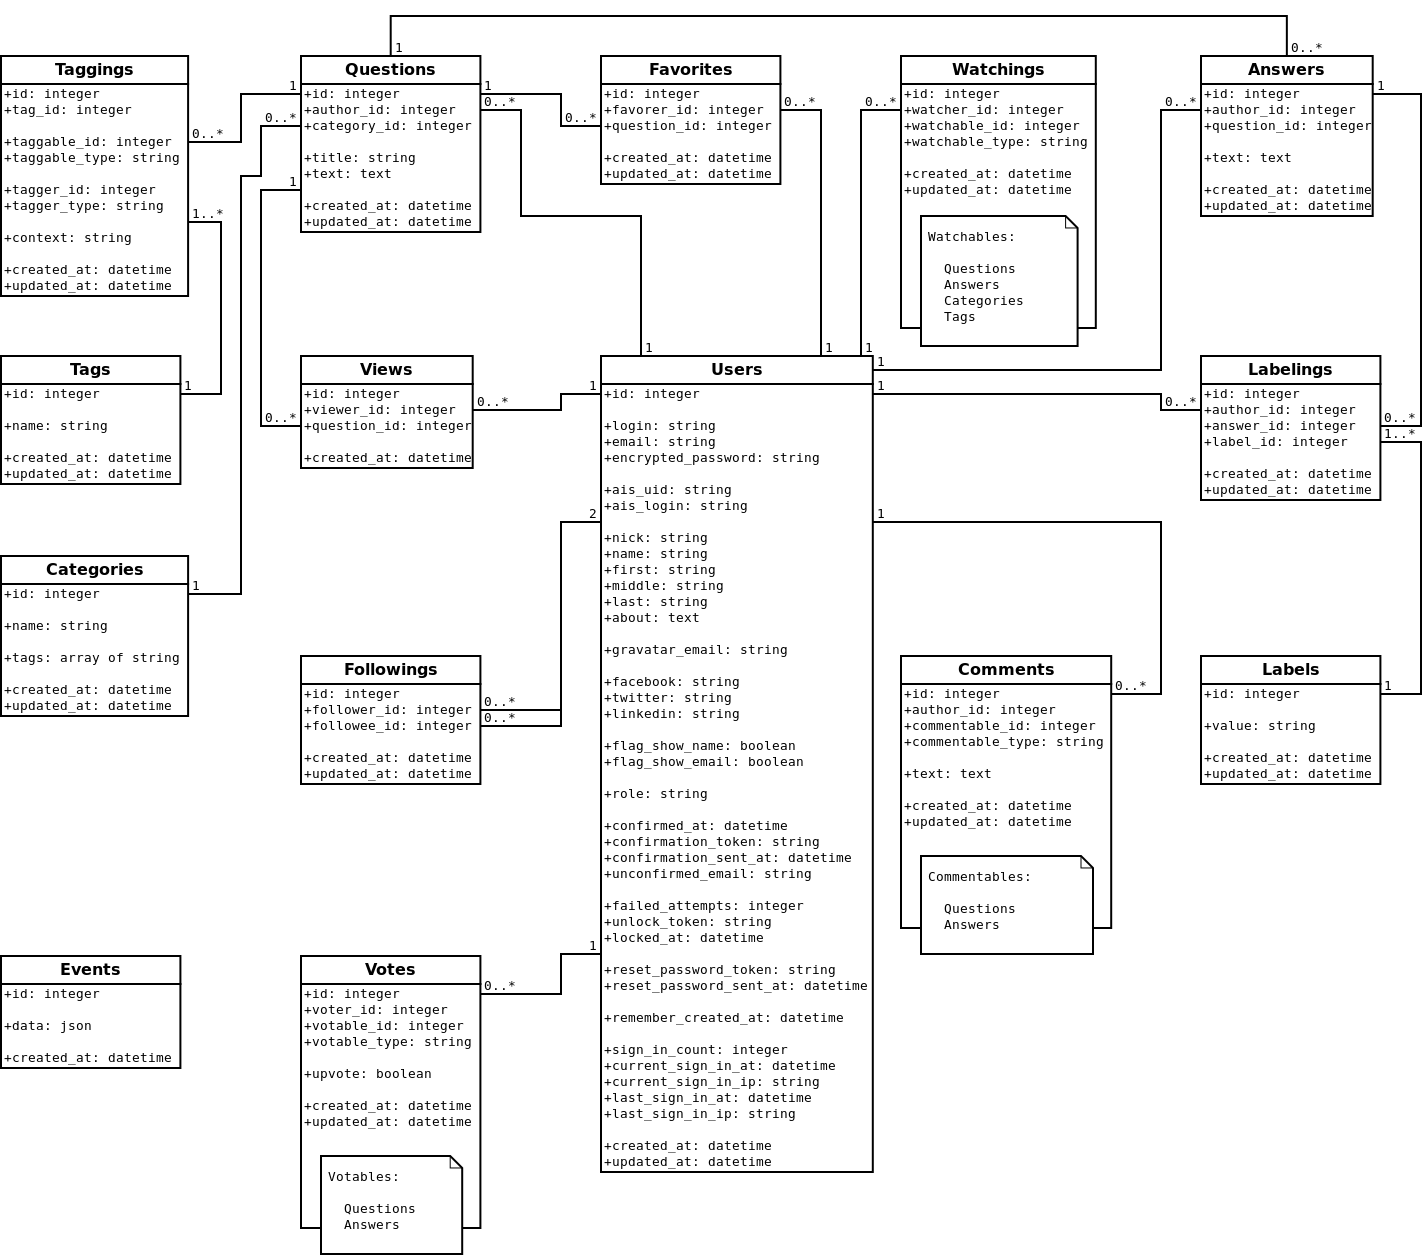
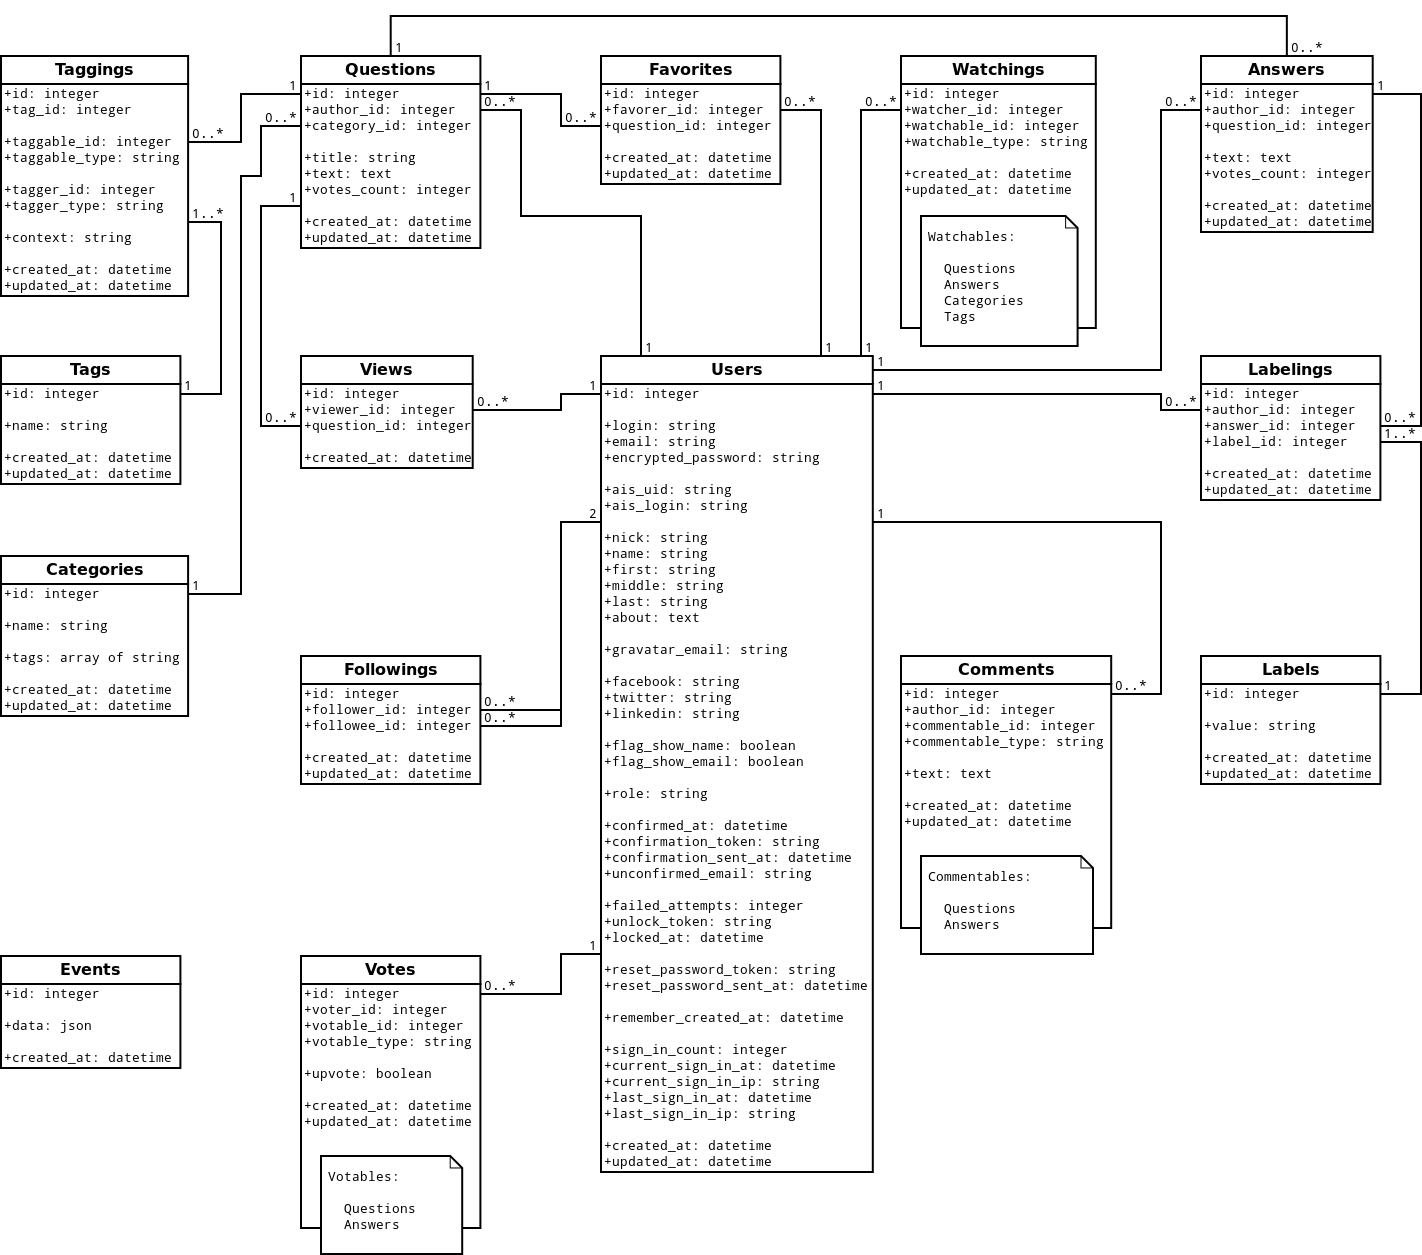
Create migration for votes count in votables

diff --git a/db/schema.rb b/db/schema.rb
@@ -11,27 +11,29 @@
 #
 # It's strongly recommended that you check this file into your version control system.
 
-ActiveRecord::Schema.define(version: 20131210012349) do
+ActiveRecord::Schema.define(version: 20140118124033) do
 
   # These are extensions that must be enabled in order to support this database
   enable_extension "plpgsql"
 
   create_table "answers", force: true do |t|
-    t.integer  "author_id",   null: false
-    t.integer  "question_id", null: false
-    t.text     "text",        null: false
+    t.integer  "author_id",               null: false
+    t.integer  "question_id",             null: false
+    t.text     "text",                    null: false
     t.datetime "created_at"
     t.datetime "updated_at"
+    t.integer  "votes_count", default: 0, null: false
   end
 
   add_index "answers", ["author_id"], name: "index_answers_on_author_id", using: :btree
   add_index "answers", ["question_id"], name: "index_answers_on_question_id", using: :btree
+  add_index "answers", ["votes_count"], name: "index_answers_on_votes_count", using: :btree
 
   create_table "categories", force: true do |t|
-    t.string   "name",                    null: false
+    t.string   "name",                                  null: false
     t.datetime "created_at"
     t.datetime "updated_at"
-    t.string   "tags",       default: [],              array: true
+    t.string   "tags",       default: ["fiit", "fiit"],              array: true
   end
 
   add_index "categories", ["name"], name: "index_categories_on_name", unique: true, using: :btree
@@ -99,17 +101,19 @@ ActiveRecord::Schema.define(version: 20131210012349) do
   add_index "labels", ["value"], name: "index_labels_on_value", unique: true, using: :btree
 
   create_table "questions", force: true do |t|
-    t.integer  "author_id",   null: false
-    t.integer  "category_id", null: false
-    t.string   "title",       null: false
-    t.text     "text",        null: false
+    t.integer  "author_id",               null: false
+    t.integer  "category_id",             null: false
+    t.string   "title",                   null: false
+    t.text     "text",                    null: false
     t.datetime "created_at"
     t.datetime "updated_at"
+    t.integer  "votes_count", default: 0, null: false
   end
 
   add_index "questions", ["author_id"], name: "index_questions_on_author_id", using: :btree
   add_index "questions", ["category_id"], name: "index_questions_on_category_id", using: :btree
   add_index "questions", ["title"], name: "index_questions_on_title", using: :btree
+  add_index "questions", ["votes_count"], name: "index_questions_on_votes_count", using: :btree
 
   create_table "taggings", force: true do |t|
     t.integer  "tag_id",                    null: false
@@ -131,12 +135,12 @@ ActiveRecord::Schema.define(version: 20131210012349) do
   end
 
   create_table "users", force: true do |t|
-    t.string   "login",                                      null: false
-    t.string   "email",                  default: "",        null: false
-    t.string   "encrypted_password",     default: "",        null: false
+    t.string   "login",                                 null: false
+    t.string   "email",                  default: "",   null: false
+    t.string   "encrypted_password",     default: "",   null: false
     t.string   "ais_uid"
     t.string   "ais_login"
-    t.string   "nick",                                       null: false
+    t.string   "nick",                                  null: false
     t.string   "name"
     t.string   "first"
     t.string   "middle"
@@ -149,13 +153,13 @@ ActiveRecord::Schema.define(version: 20131210012349) do
     t.datetime "confirmed_at"
     t.datetime "confirmation_sent_at"
     t.string   "unconfirmed_email"
-    t.integer  "failed_attempts",        default: 0,         null: false
+    t.integer  "failed_attempts",        default: 0,    null: false
     t.string   "unlock_token"
     t.datetime "locked_at"
     t.string   "reset_password_token"
     t.datetime "reset_password_sent_at"
     t.datetime "remember_created_at"
-    t.integer  "sign_in_count",          default: 0,         null: false
+    t.integer  "sign_in_count",          default: 0,    null: false
     t.datetime "current_sign_in_at"
     t.string   "current_sign_in_ip"
     t.datetime "last_sign_in_at"
@@ -163,8 +167,8 @@ ActiveRecord::Schema.define(version: 20131210012349) do
     t.datetime "created_at"
     t.datetime "updated_at"
     t.string   "gravatar_email"
-    t.boolean  "flag_show_name",         default: true,      null: false
-    t.boolean  "flag_show_email",        default: true,      null: false
+    t.boolean  "flag_show_name",         default: true, null: false
+    t.boolean  "flag_show_email",        default: true, null: false
     t.string   "bitbucket"
     t.string   "flickr"
     t.string   "foursquare"
@@ -175,7 +179,7 @@ ActiveRecord::Schema.define(version: 20131210012349) do
     t.string   "stack_overflow"
     t.string   "tumblr"
     t.string   "youtube"
-    t.string   "role",                   default: "student", null: false
+    t.string   "role",                                  null: false
   end
 
   add_index "users", ["ais_login"], name: "index_users_on_ais_login", unique: true, using: :btree

diff --git a/db/migrate/20140118124033_add_votes_count_to_answers_and_questions.rb b/db/migrate/20140118124033_add_votes_count_to_answers_and_questions.rb
@@ -1,0 +1,9 @@
+class AddVotesCountToAnswersAndQuestions < ActiveRecord::Migration
+  def change
+    add_column :answers,   :votes_count, :integer, null: false, default: 0
+    add_column :questions, :votes_count, :integer, null: false, default: 0
+
+    add_index :answers,   :votes_count
+    add_index :questions, :votes_count
+  end
+end
